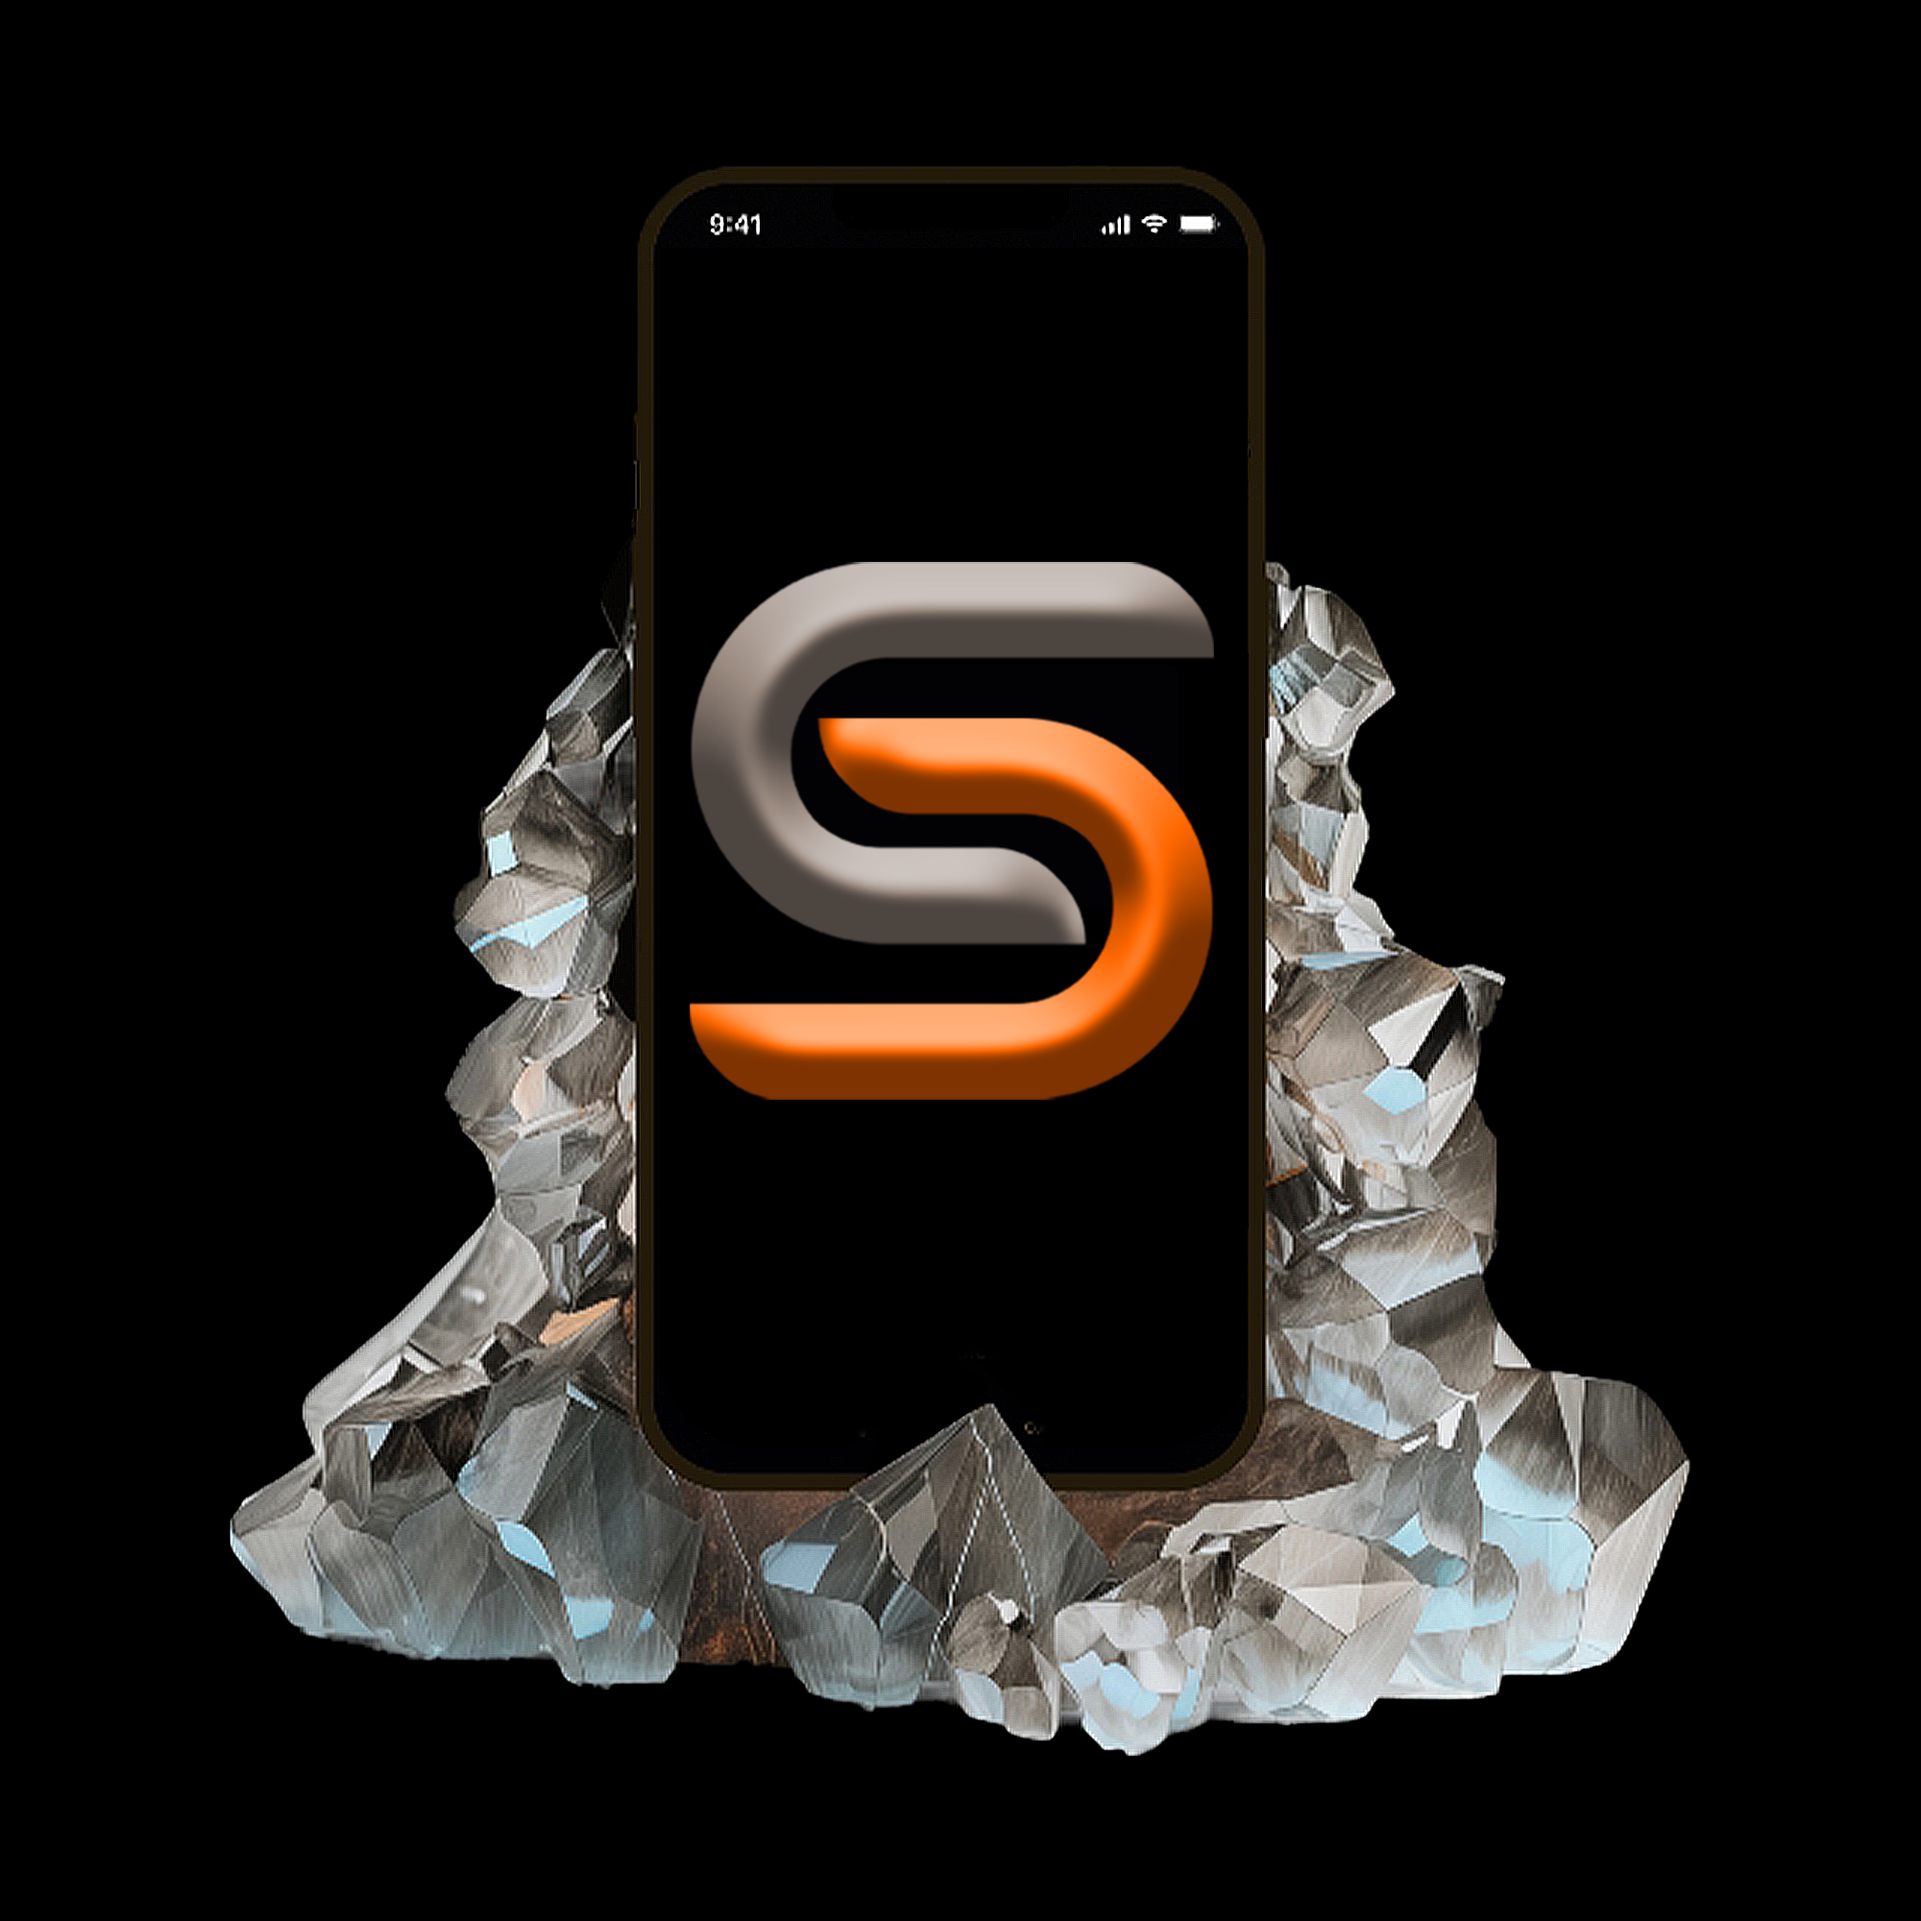
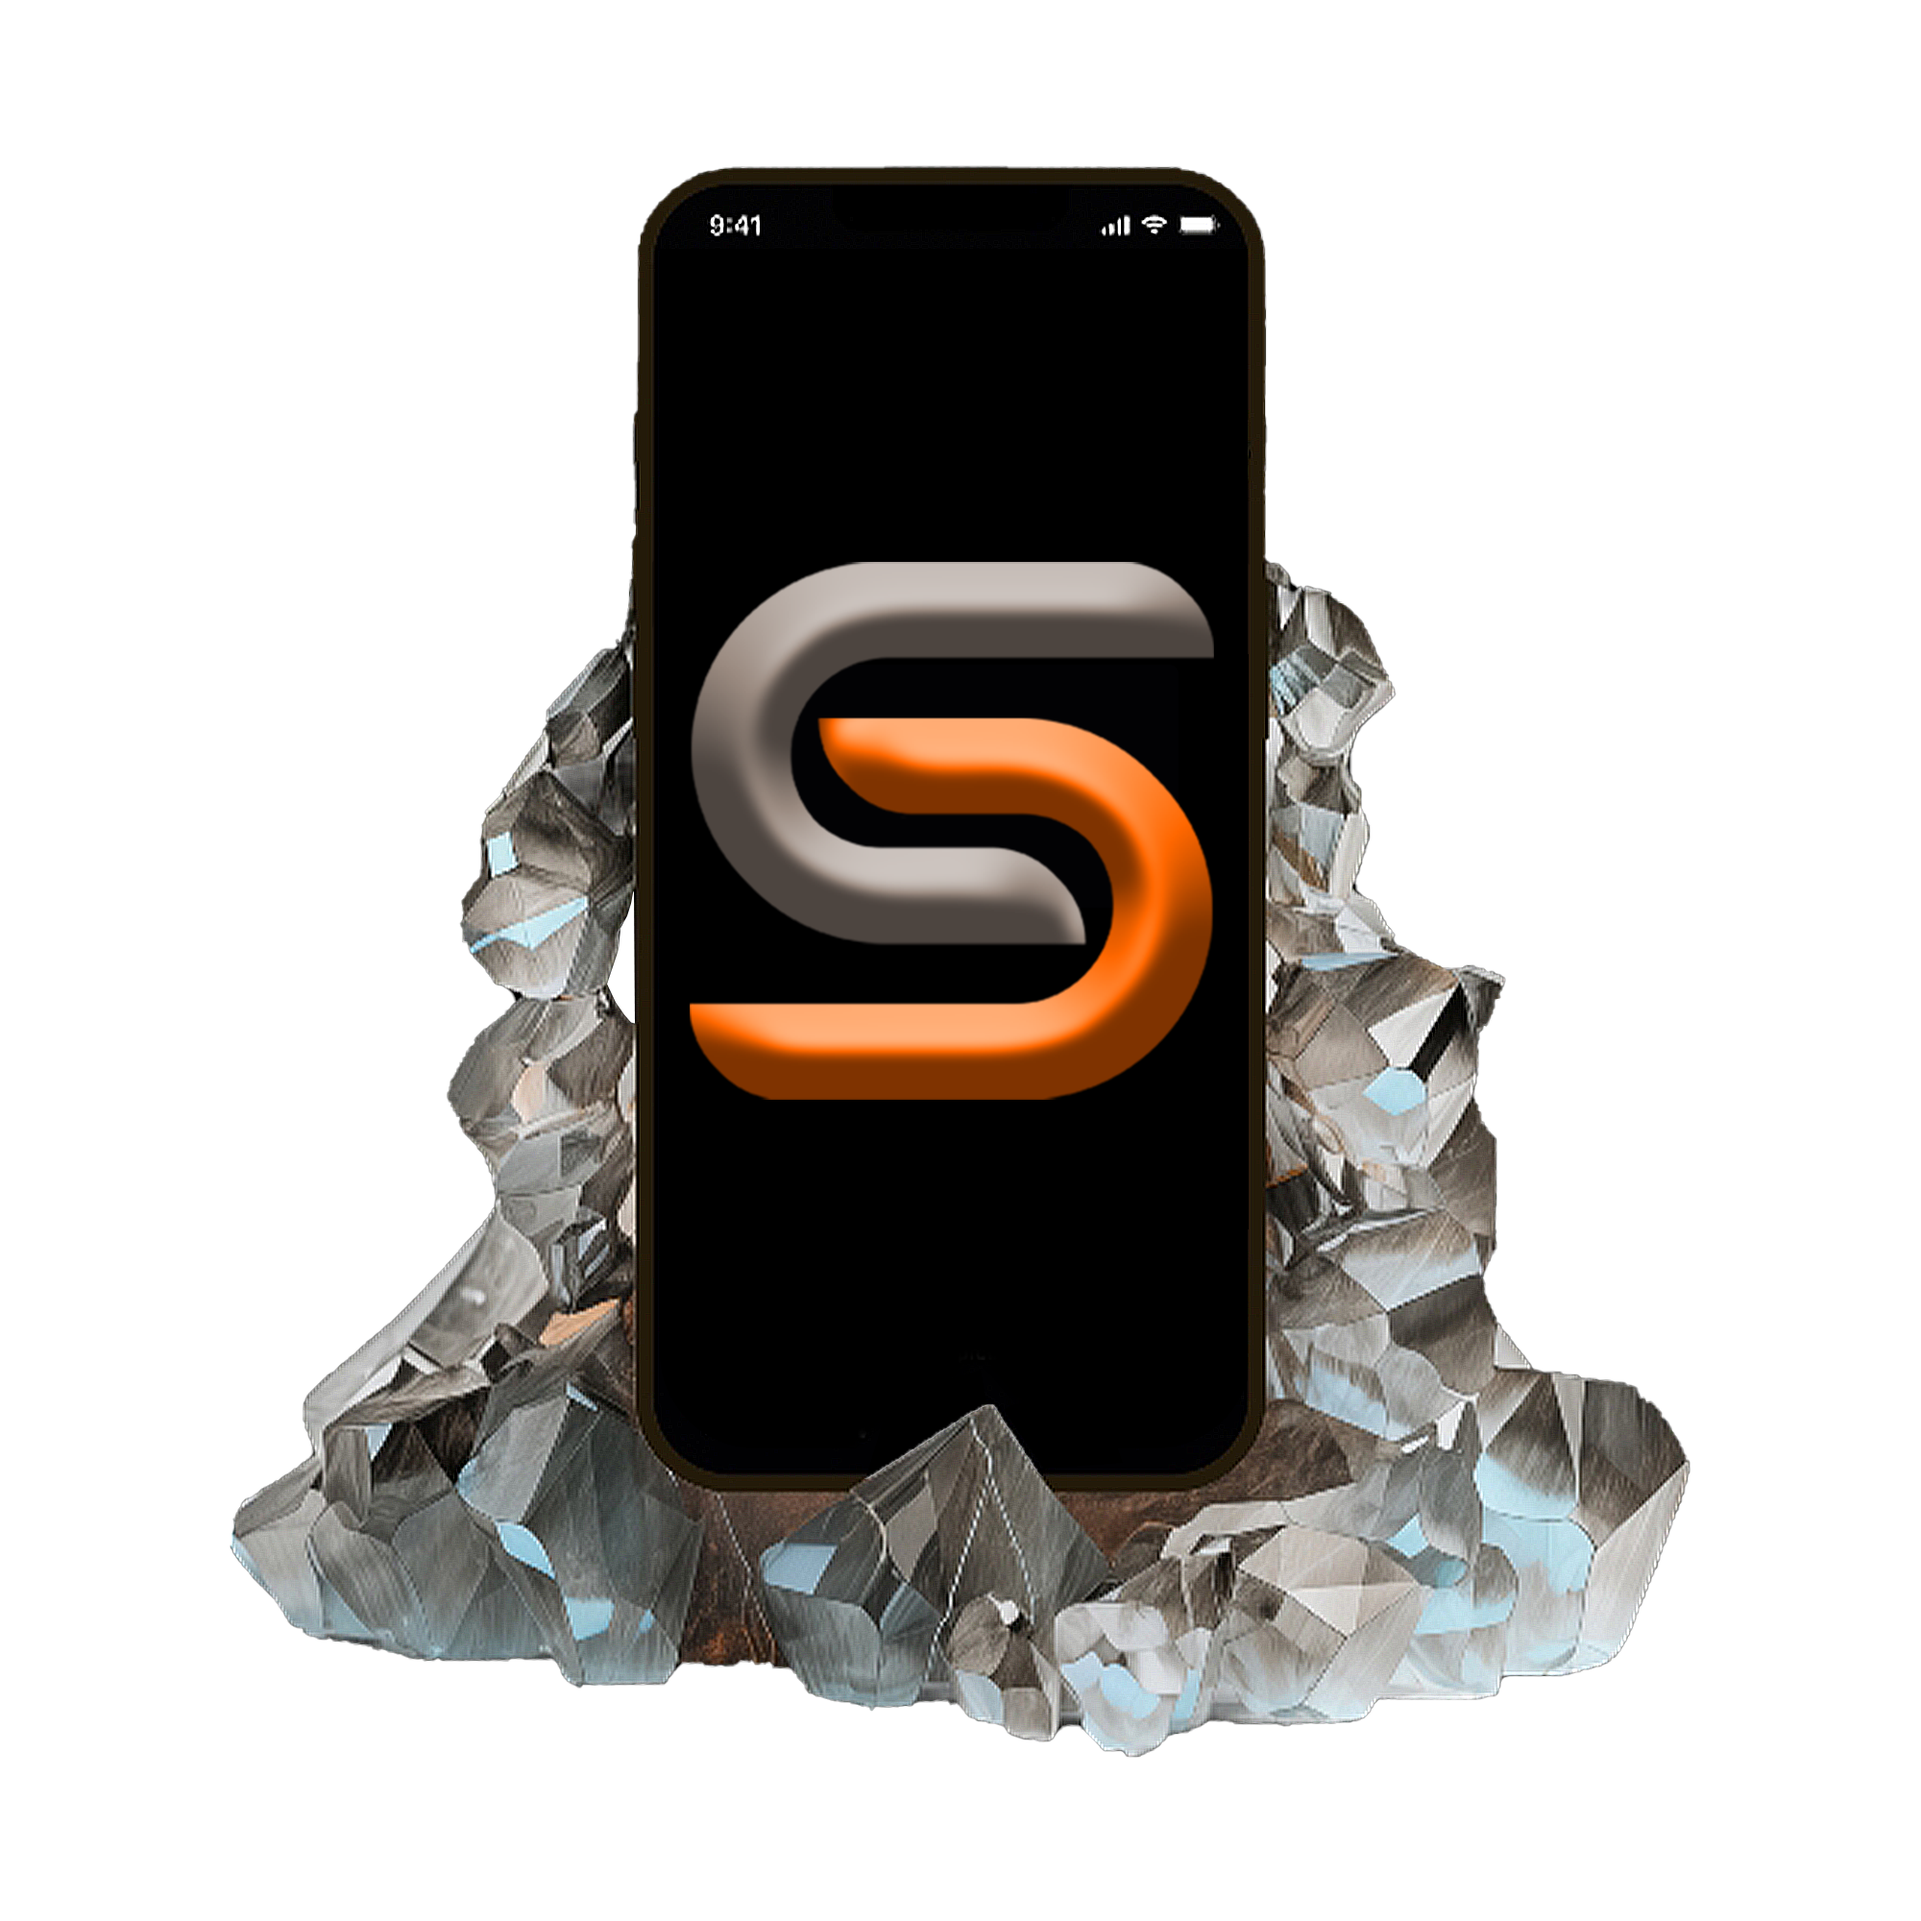
fix: update homee.png image for improved visual quality

diff --git a/src/app/components/Hero.tsx b/src/app/components/Hero.tsx
@@ -83,7 +83,7 @@ export default function Hero() {
           <div className="flex-1 basis-full md:basis-1/2">
             <div className="relative w-full h-0 pb-[100%]">
               <Image
-                src="/images/home.png"
+                src="/images/homee.png"
                 alt="Hero"
                 fill
                 className="object-contain"
